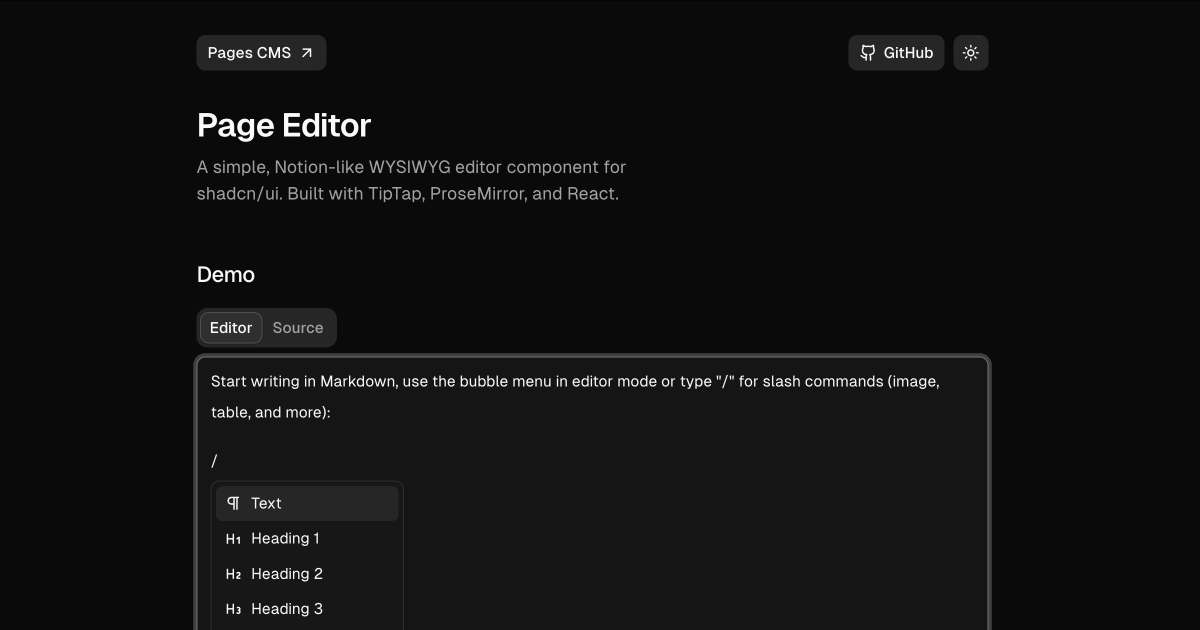
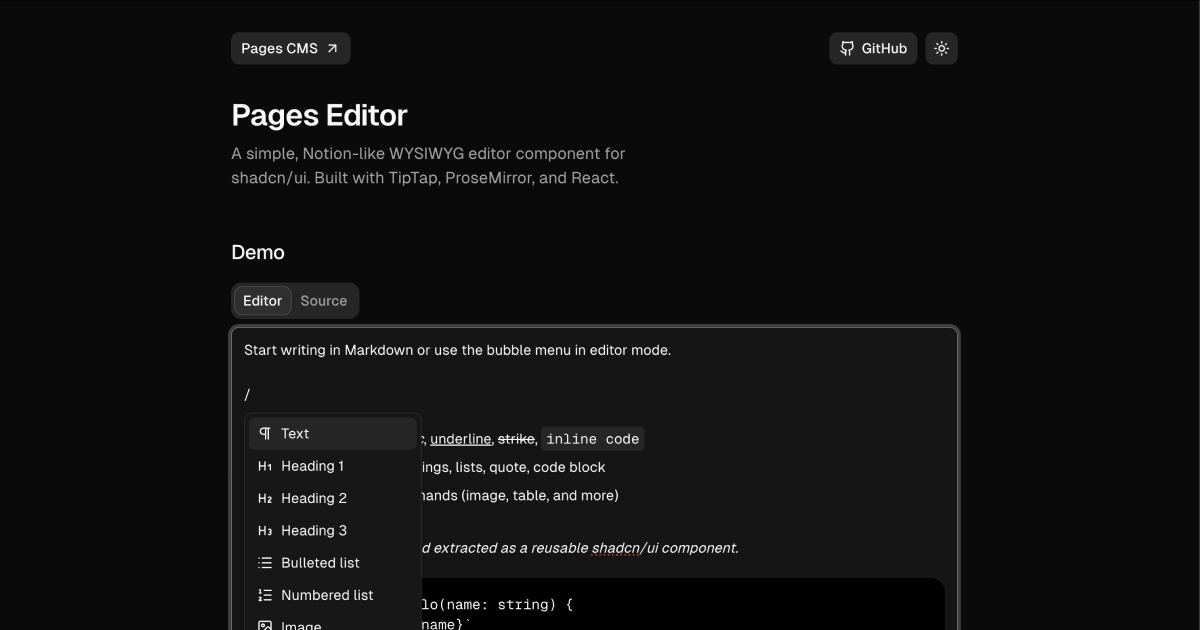
Fixing URLs and social card

diff --git a/index.html b/index.html
@@ -3,17 +3,17 @@
   <head>
     <meta charset="UTF-8" />
     <meta name="viewport" content="width=device-width, initial-scale=1.0" />
-    <title>Page Editor | pages-cms/editor</title>
+    <title>Pages Editor | pages-cms/editor</title>
     <meta
       name="description"
-      content="Page Editor is a simple Notion-like WYSIWYG editor component for shadcn/ui, built with TipTap and Tailwind CSS."
+      content="Pages Editor is a simple Notion-like WYSIWYG editor component for shadcn/ui, built with TipTap and Tailwind CSS."
     />
     <meta name="robots" content="index, follow" />
     <link rel="canonical" href="https://editor.pagescms.org/" />
 
     <meta property="og:type" content="website" />
     <meta property="og:url" content="https://editor.pagescms.org/" />
-    <meta property="og:title" content="Page Editor | pages-cms/editor" />
+    <meta property="og:title" content="Pages Editor | pages-cms/editor" />
     <meta
       property="og:description"
       content="A simple Notion-like WYSIWYG editor component for shadcn/ui, built with TipTap and Tailwind CSS."
@@ -22,11 +22,11 @@
       property="og:image"
       content="https://editor.pagescms.org/social.png"
     />
-    <meta property="og:image:alt" content="Page Editor by pages-cms" />
+    <meta property="og:image:alt" content="Pages Editor by pages-cms" />
 
     <meta name="twitter:card" content="summary_large_image" />
     <meta name="twitter:url" content="https://editor.pagescms.org/" />
-    <meta name="twitter:title" content="Page Editor | pages-cms/editor" />
+    <meta name="twitter:title" content="Pages Editor | pages-cms/editor" />
     <meta
       name="twitter:description"
       content="A simple Notion-like WYSIWYG editor component for shadcn/ui, built with TipTap and Tailwind CSS."
@@ -35,7 +35,7 @@
       name="twitter:image"
       content="https://editor.pagescms.org/social.png"
     />
-    <meta name="twitter:image:alt" content="Page Editor by pages-cms" />
+    <meta name="twitter:image:alt" content="Pages Editor by pages-cms" />
   </head>
   <body>
     <div id="root"></div>

diff --git a/src/App.tsx b/src/App.tsx
@@ -6,7 +6,7 @@ import { Button } from "./components/ui/button";
 import { Tabs, TabsContent, TabsList, TabsTrigger } from "./components/ui/tabs";
 import { Tooltip, TooltipContent, TooltipProvider, TooltipTrigger } from "./components/ui/tooltip";
 
-const THEME_STORAGE_KEY = "page-editor-theme";
+const THEME_STORAGE_KEY = "pages-editor-theme";
 const COPY_FEEDBACK_MS = 1500;
 const DEFAULT_EDITOR_CONTENT_CSS = `.cn-editor .tiptap > :first-child {
   margin-top: 0;
@@ -281,7 +281,7 @@ export default function App() {
               </Button>
             </div>
           </header>
-          <h1 className="mt-8 scroll-m-24 text-3xl font-semibold tracking-tight sm:text-3xl">Page Editor</h1>
+          <h1 className="mt-8 scroll-m-24 text-3xl font-semibold tracking-tight sm:text-3xl">Pages Editor</h1>
           <p className="text-[1.05rem] sm:text-base sm:text-balance md:max-w-[80%] text-muted-foreground">
             A simple, Notion-like WYSIWYG editor component for shadcn/ui. Built with TipTap, ProseMirror, and React.
           </p>
